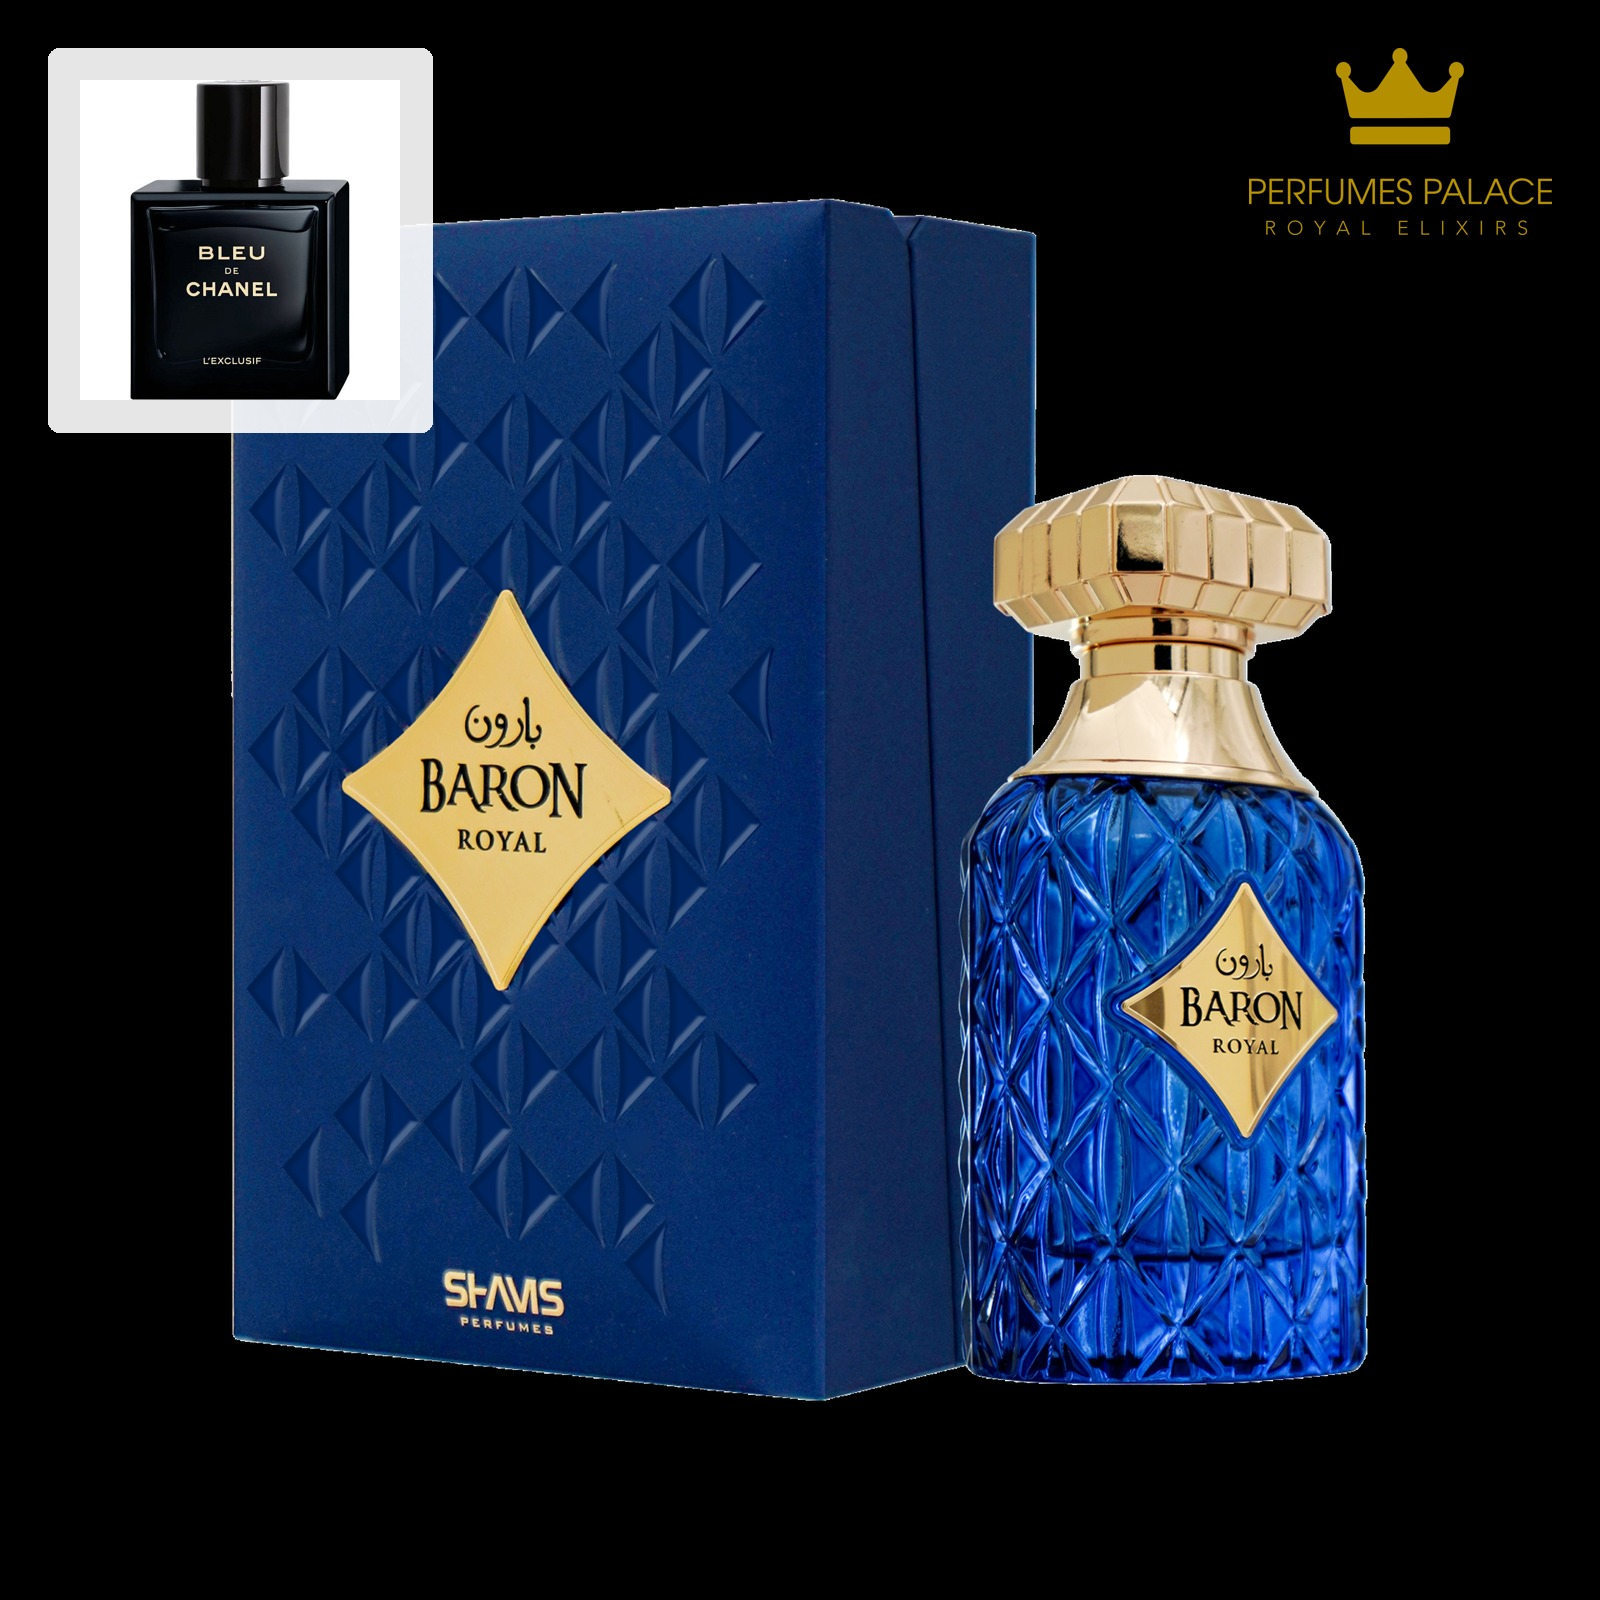
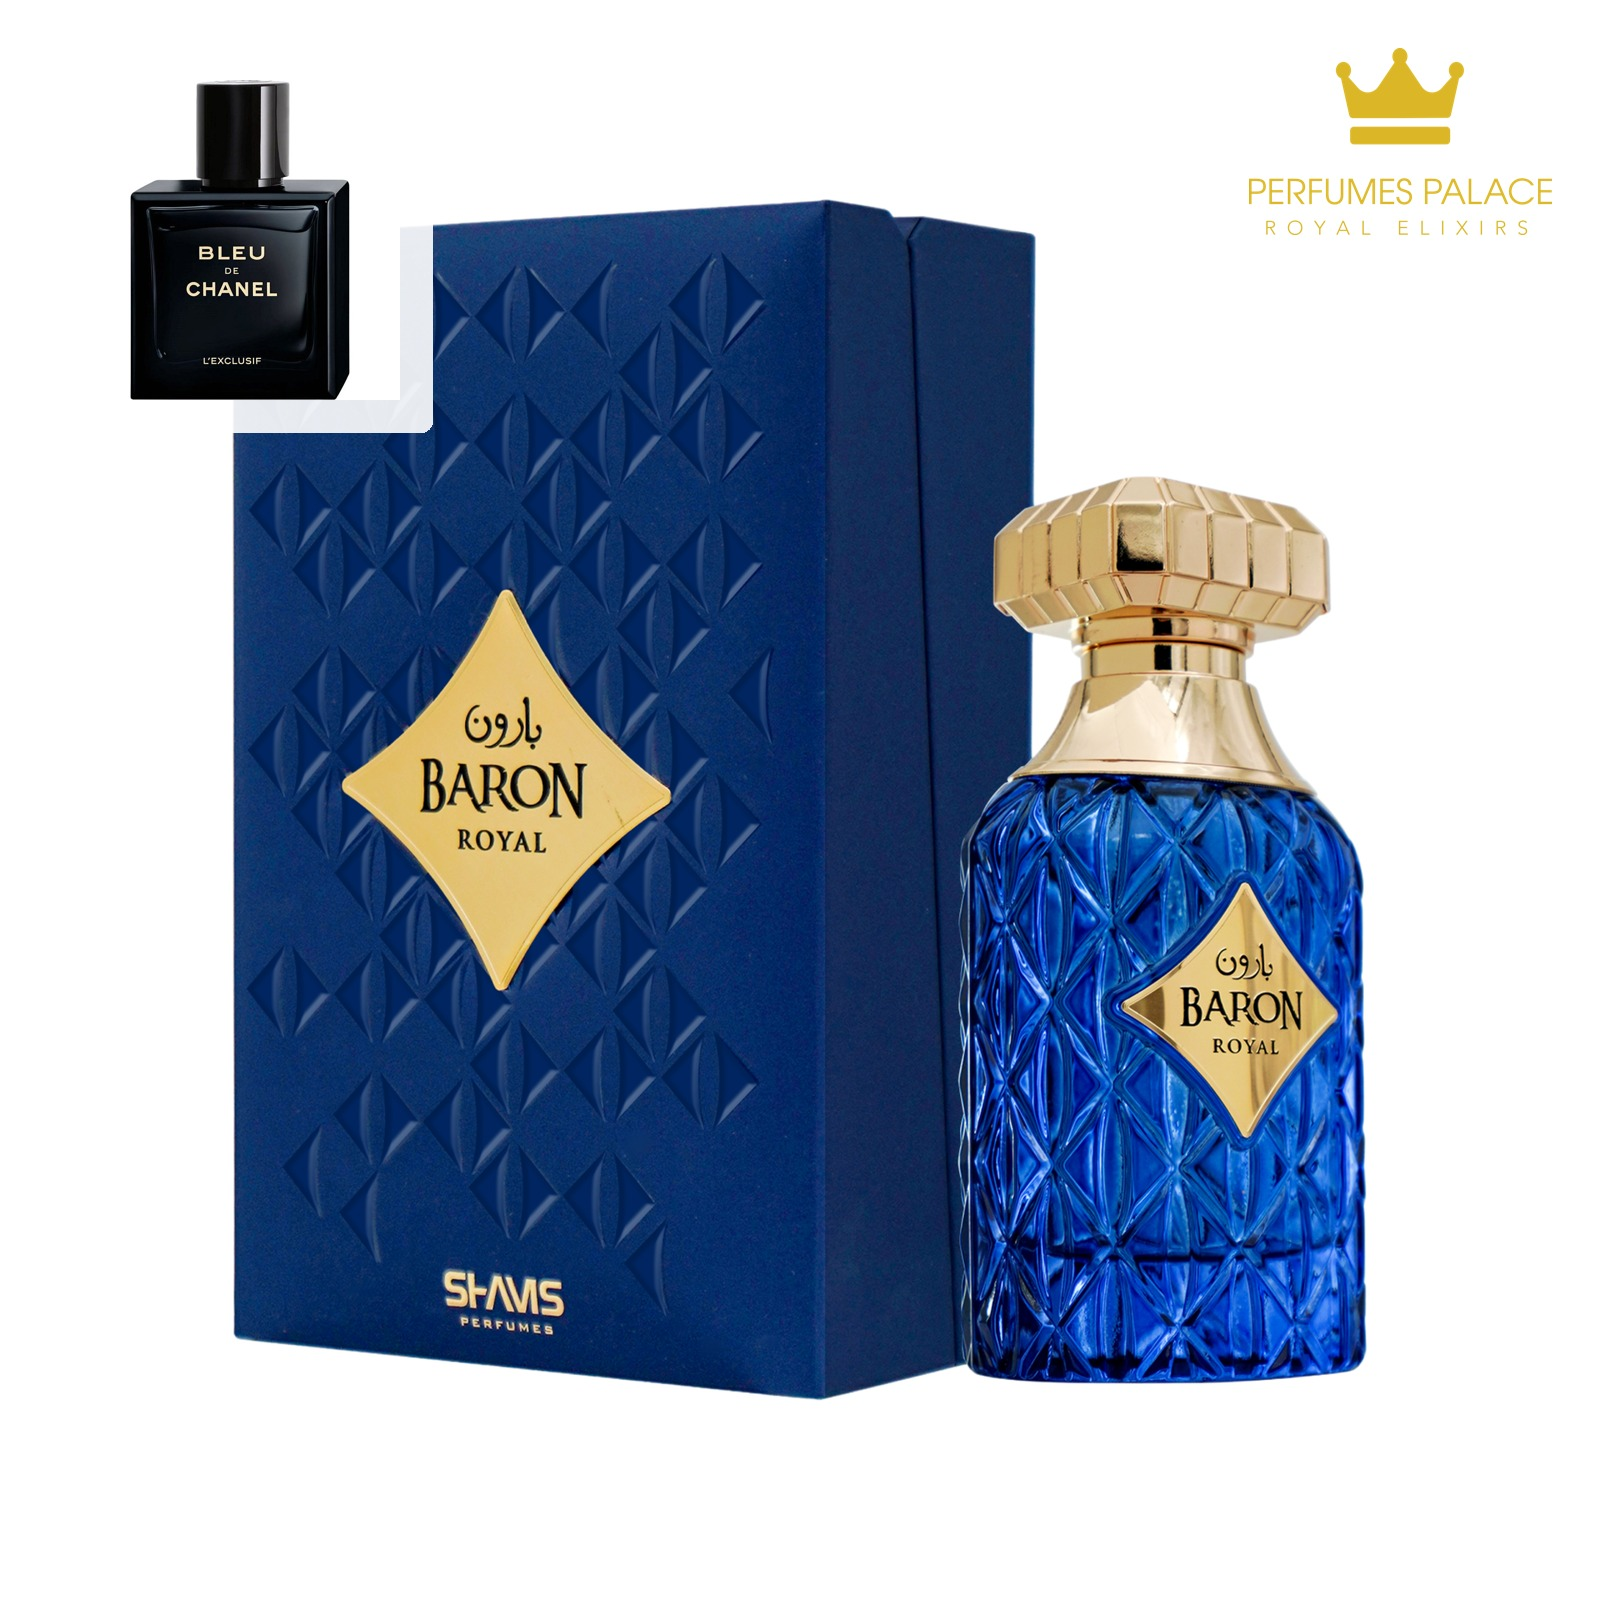
Flatten transparent PNG/WebP sources onto white before compositing
13 badged products use RGBA sources; convert('RGB') could leave
black where transparent. Now alpha is composited onto white first.
All 131 re-rendered; verified white corners on affected renders.

diff --git a/alternative-pictures/compose.py b/alternative-pictures/compose.py
@@ -51,7 +51,14 @@ def find_original(names):
     return None
 
 def compose(product_path, badge_paths, out_path, size=None):
-    img = Image.open(product_path).convert('RGB')
+    img = Image.open(product_path)
+    img = ImageOps.exif_transpose(img)
+    if img.mode in ('RGBA', 'LA', 'P') or (img.mode == 'RGB' and 'transparency' in img.info):
+        img = img.convert('RGBA')
+        bg = Image.new('RGB', img.size, (255, 255, 255))
+        bg.paste(img, mask=img.getchannel('A'))
+        img = bg
+    img = img.convert('RGB')
     img = ImageOps.exif_transpose(img)
     if PAD_TO_SQUARE:
         w, h = img.size
